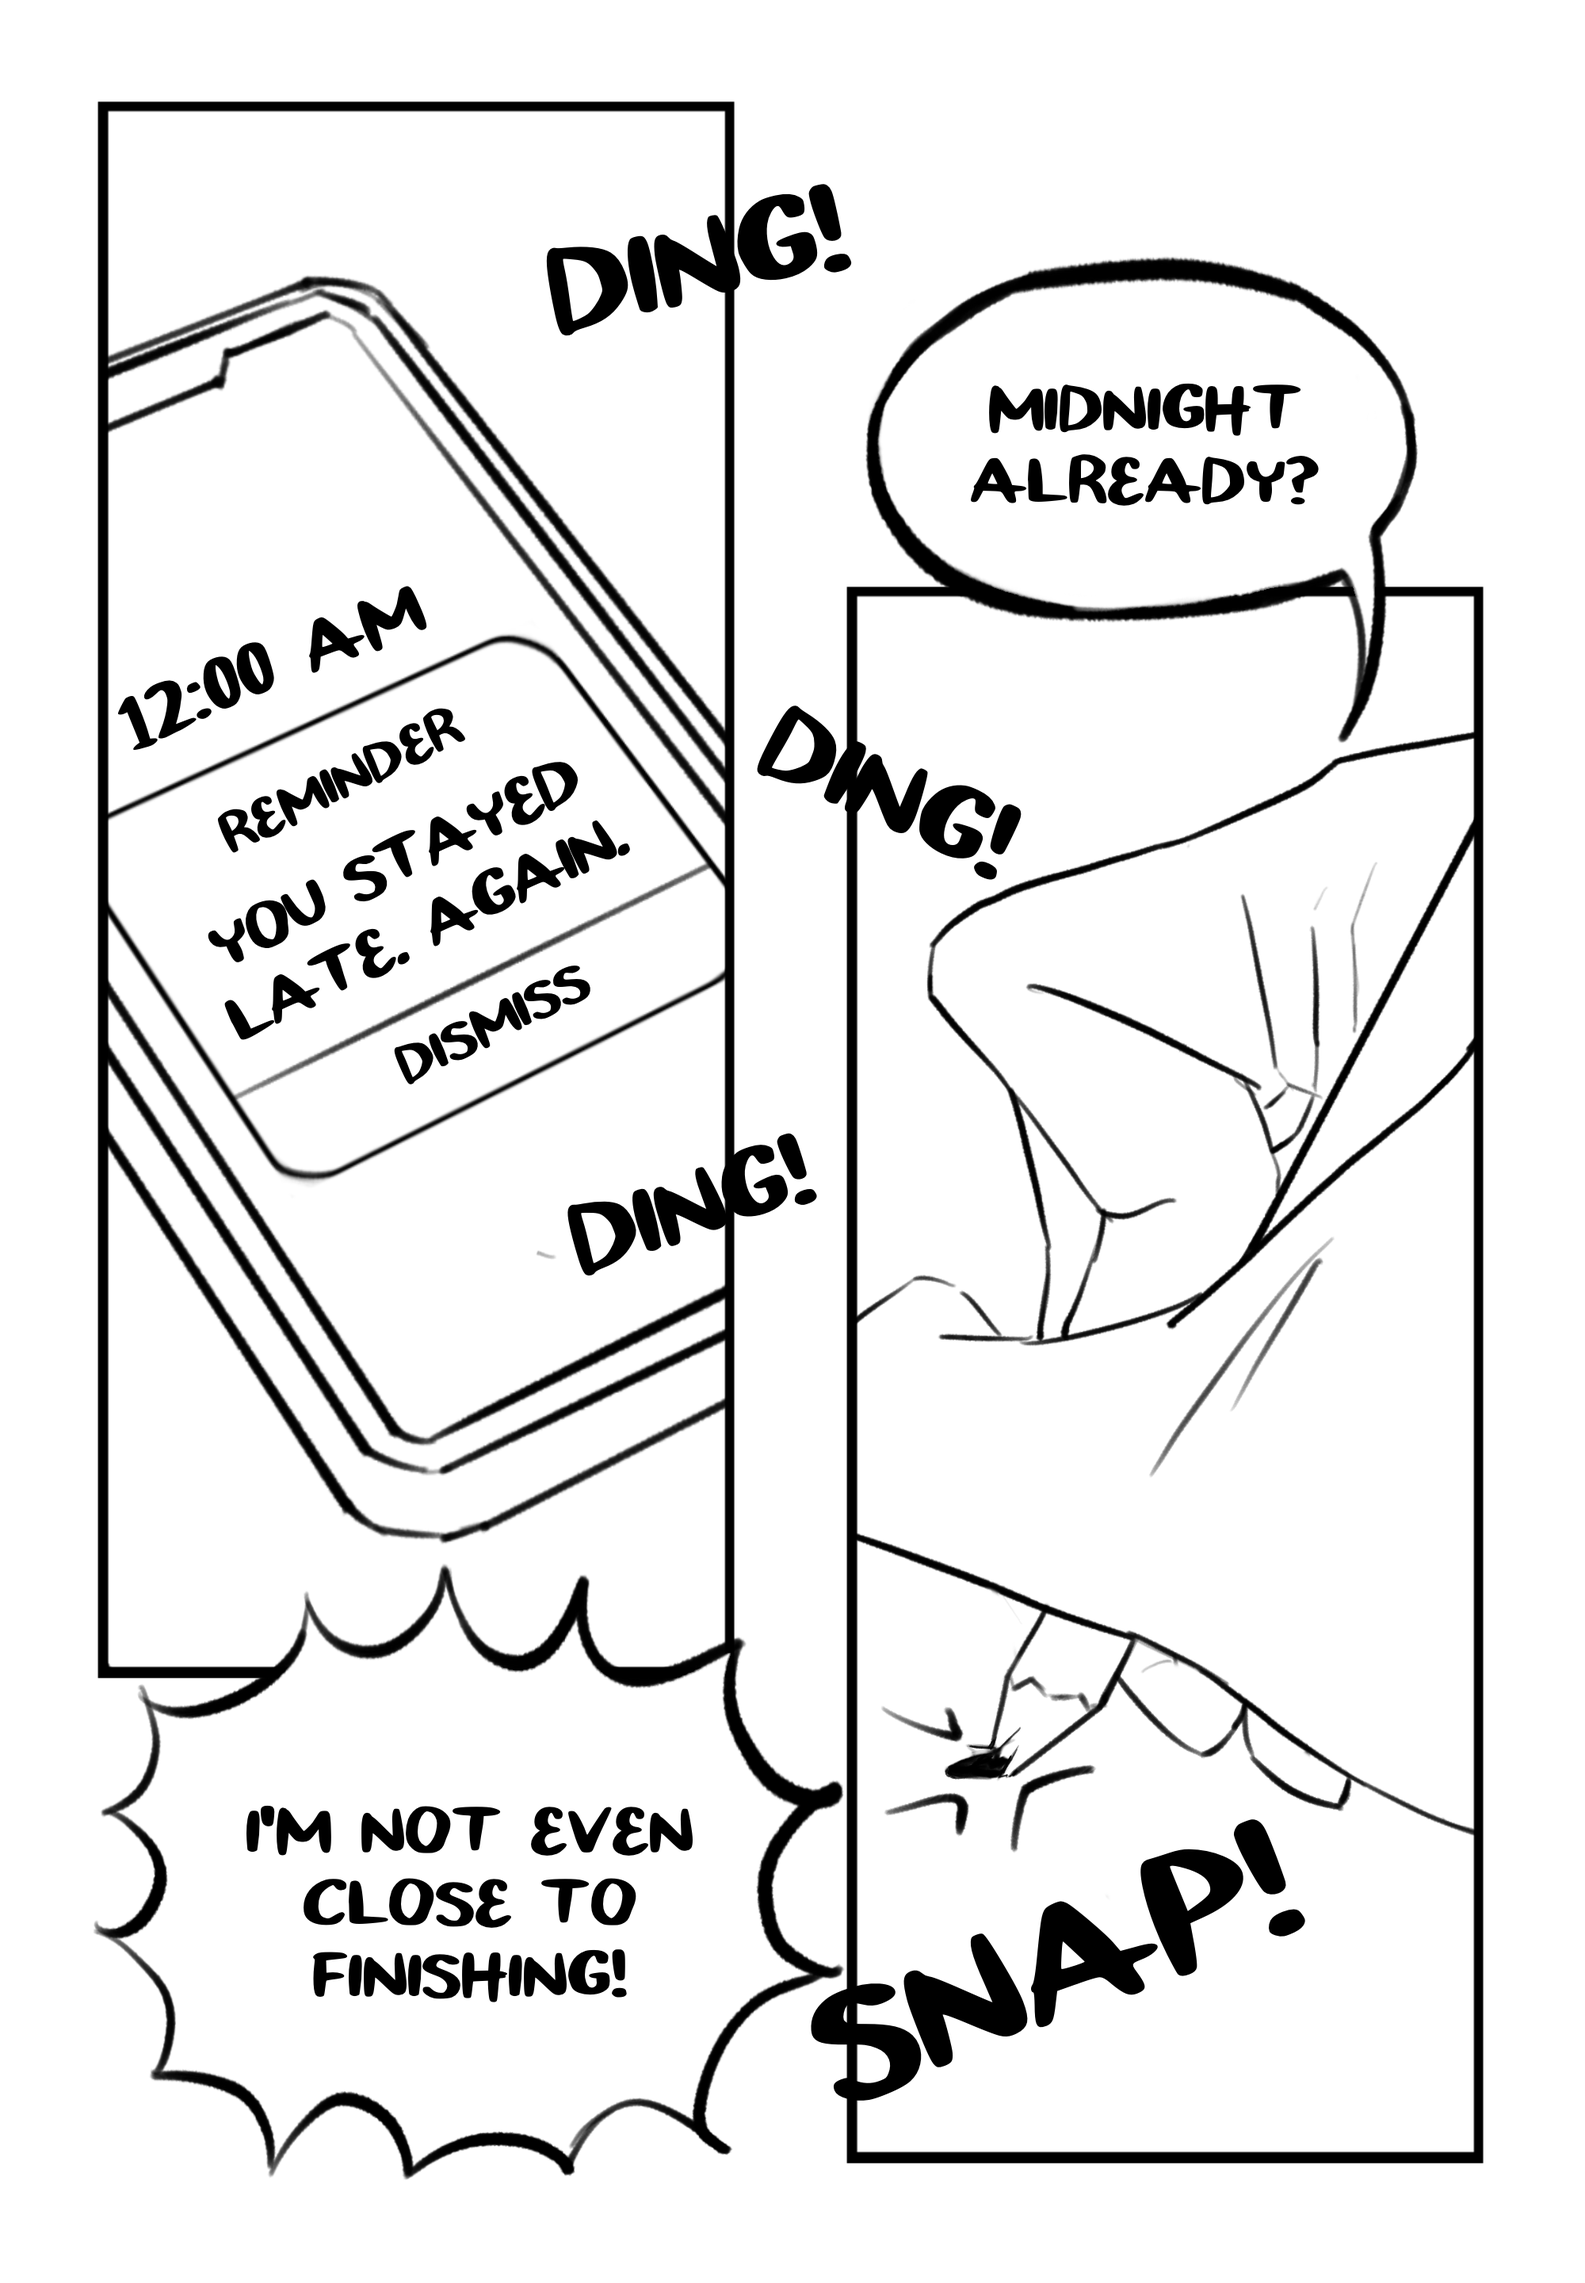
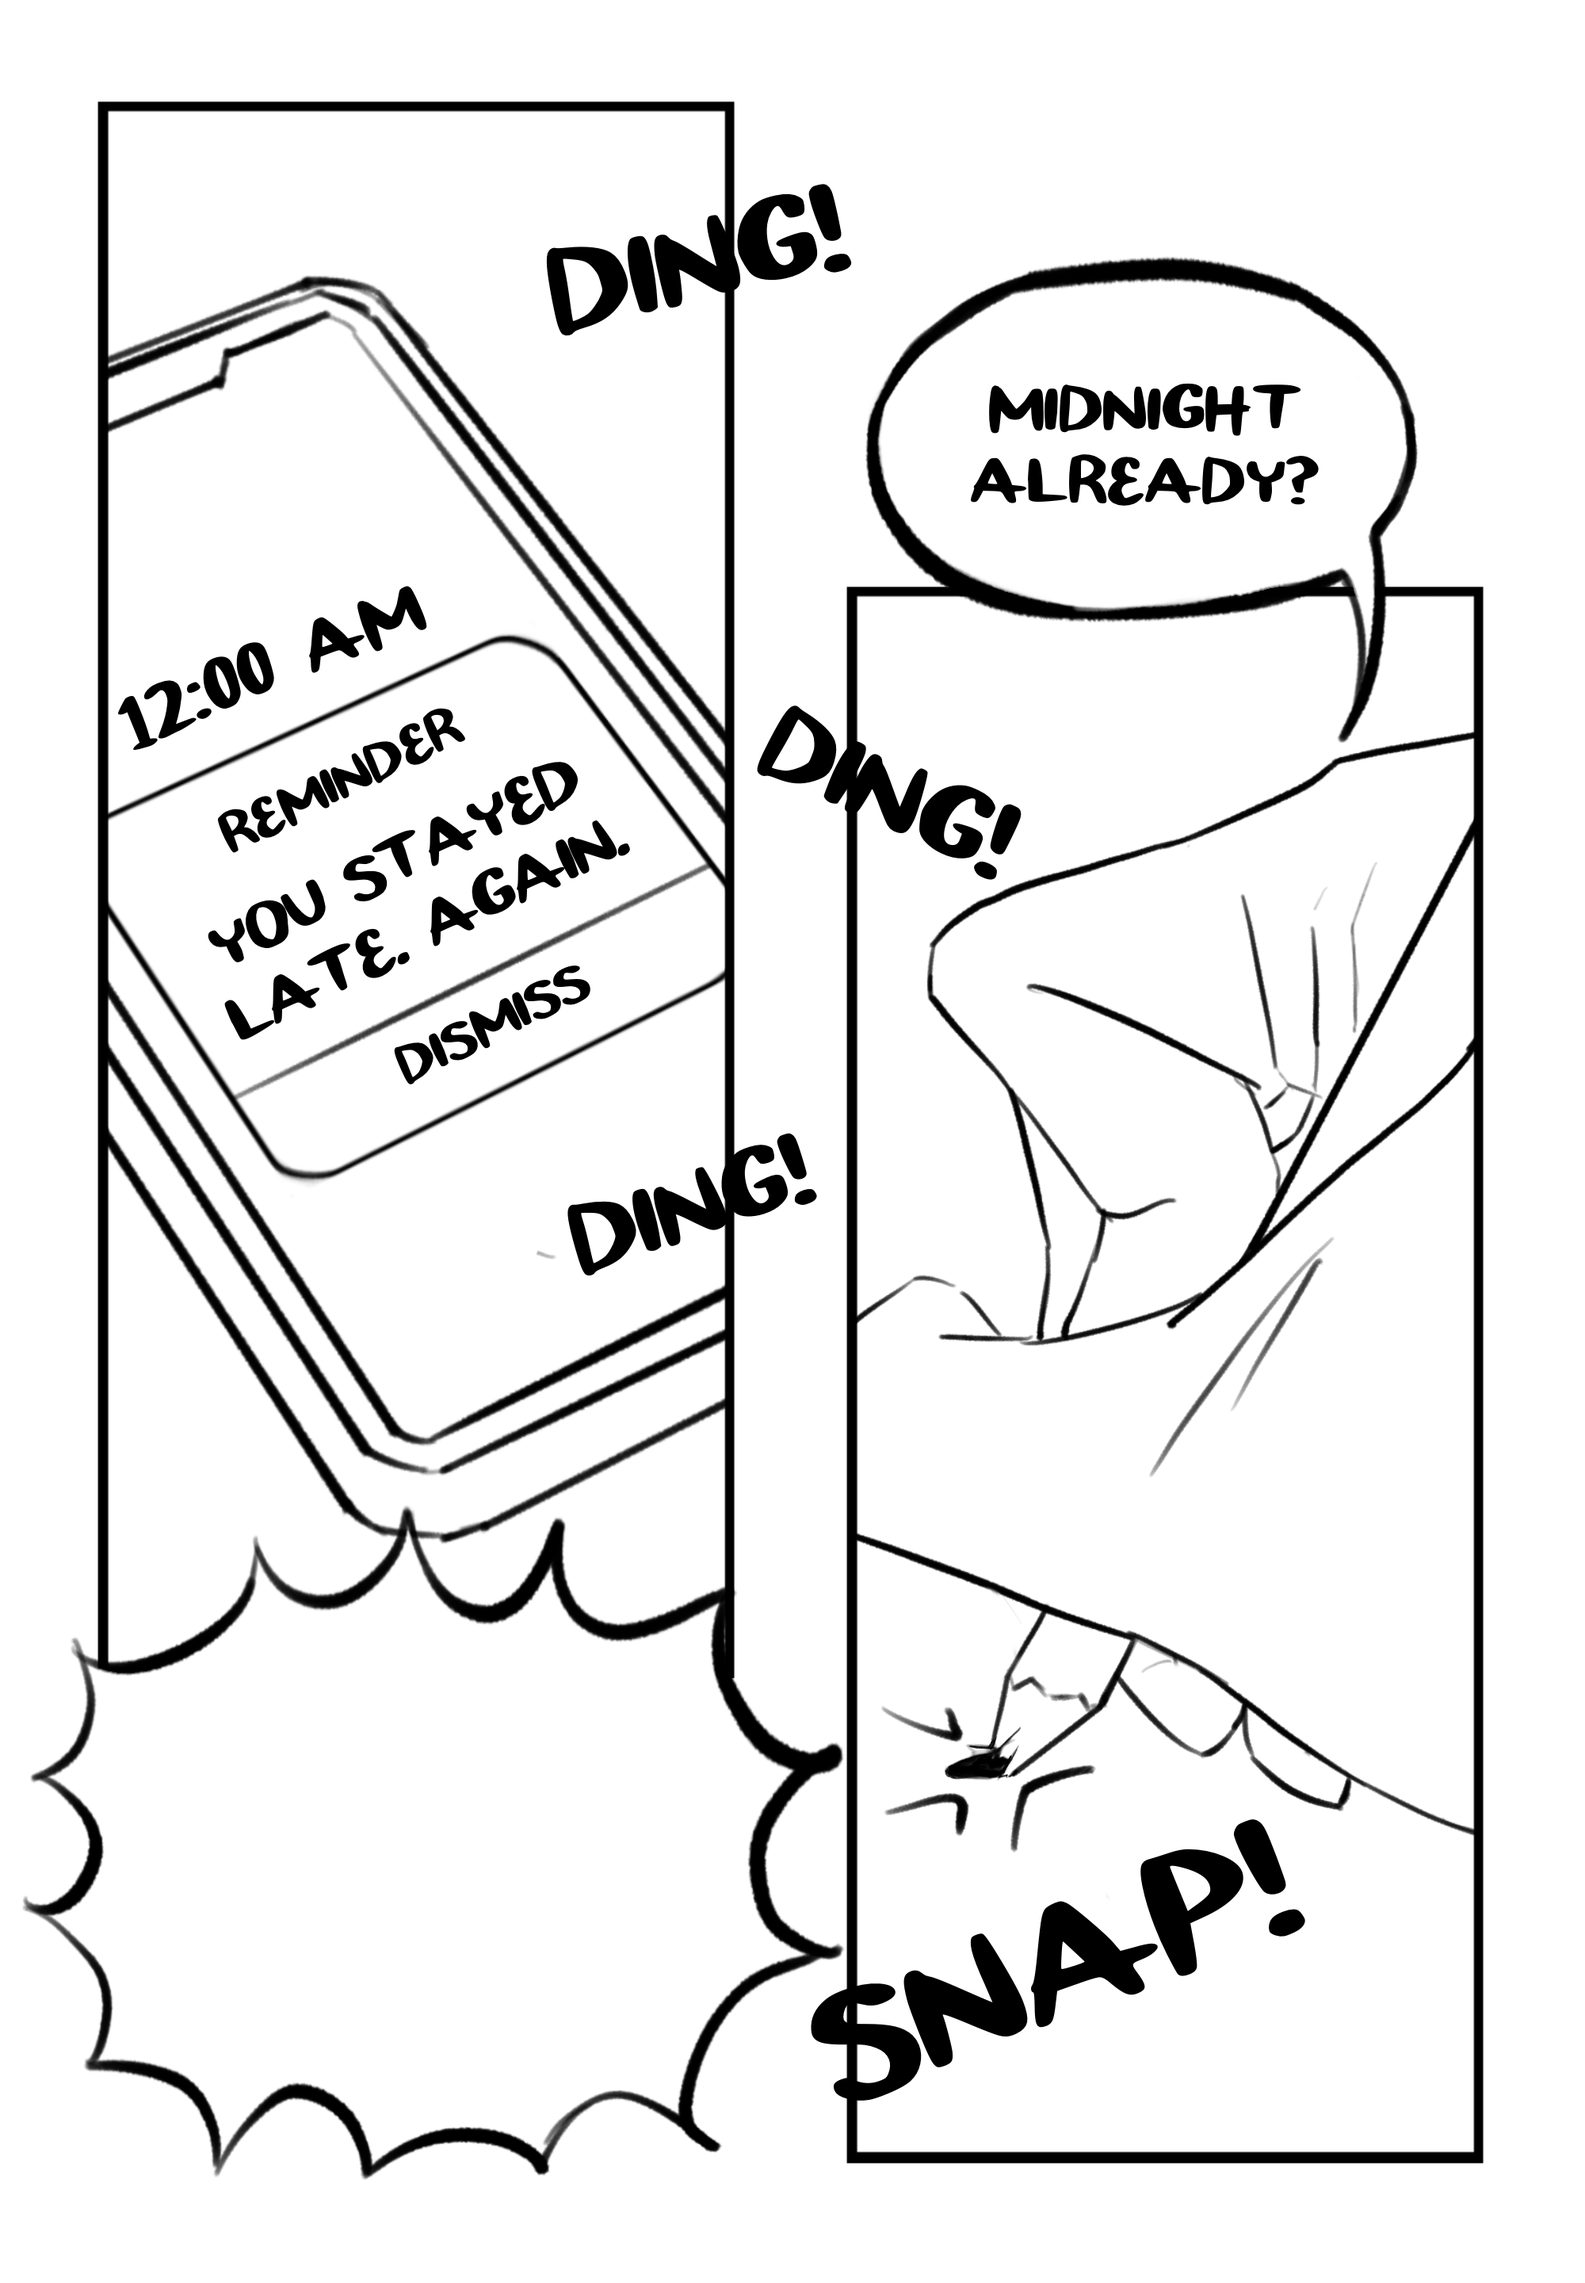
task: adds prompts

Changed region(s): [[0.0, 0.6562, 0.527, 0.9688], [0.155, 0.7812, 0.434, 0.875]]

diff --git a/game/src/constants/index.js b/game/src/constants/index.js
@@ -27,7 +27,7 @@ export const PANELS = [
     id: 0,
     background: panel1,
     mc_dialogue: ["type to start"],
-    mc_dialogue_x: "8rem",
+    mc_dialogue_x: "9rem",
     mc_dialogue_y: "30rem",
     rotate: "0deg",
     size: "20px",
@@ -38,11 +38,11 @@ export const PANELS = [
   {
     id: 1,
     background: panel2,
-    mc_dialogue: ["next"],
-    mc_dialogue_x: "24rem",
-    mc_dialogue_y: "37.5rem",
-    rotate: "0deg",
-    size: "30px",
+    mc_dialogue: ["ding!"],
+    mc_dialogue_x: "12rem",
+    mc_dialogue_y: "17.5rem",
+    rotate: "10deg",
+    size: "25px",
     other_dialogues: () => [],
     combat: false,
     next_id: 2,
@@ -51,8 +51,8 @@ export const PANELS = [
     id: 2,
     background: panel3,
     mc_dialogue: ["dammit. need to find the nest fast."],
-    mc_dialogue_x: "7.2rem",
-    mc_dialogue_y: "30rem",
+    mc_dialogue_x: "8rem",
+    mc_dialogue_y: "33rem",
     rotate: "-37deg",
     size: "25px",
     other_dialogues: () => [],
@@ -63,8 +63,8 @@ export const PANELS = [
     id: 3,
     background: panel4,
     mc_dialogue: ["oh no, it's empty!"],
-    mc_dialogue_x: "13rem",
-    mc_dialogue_y: "22rem",
+    mc_dialogue_x: "13.5rem",
+    mc_dialogue_y: "25rem",
     rotate: "-23deg",
     size: "25px",
     other_dialogues: () => [],
@@ -74,9 +74,9 @@ export const PANELS = [
   {
     id: 4,
     background: panel5,
-    mc_dialogue: ["arg, useless thing.", "out of bullets.", "damn rifle"],
+    mc_dialogue: ["arg, useless thing", "out of bullets", "damn rifle"],
     mc_dialogue_x: "13rem",
-    mc_dialogue_y: "5rem",
+    mc_dialogue_y: "8.5rem",
     rotate: "-23deg",
     size: "25px",
     other_dialogues: () => [],
@@ -87,8 +87,8 @@ export const PANELS = [
     id: 5,
     background: panel6,
     mc_dialogue: ["shit."],
-    mc_dialogue_x: "13rem",
-    mc_dialogue_y: "22.5rem",
+    mc_dialogue_x: "13.5rem",
+    mc_dialogue_y: "25.5rem",
     rotate: "-23deg",
     size: "30px",
     other_dialogues: () => [],
@@ -99,11 +99,11 @@ export const PANELS = [
   {
     id: 6,
     background: panel7,
-    mc_dialogue: ["midnight already?", "i'm not even close to finishing!"],
-    mc_dialogue_x: "12rem",
-    mc_dialogue_y: "22rem",
+    mc_dialogue: ["i'm not even close to finishing!"],
+    mc_dialogue_x: "2rem",
+    mc_dialogue_y: "34rem",
     rotate: "0deg",
-    size: "30px",
+    size: "25px",
     other_dialogues: () => [`This is a typing game.`],
     combat: false,
     next_id: 7,
@@ -111,11 +111,11 @@ export const PANELS = [
   {
     id: 7,
     background: panel8,
-    mc_dialogue: [" "],
-    mc_dialogue_x: "-2.7rem",
-    mc_dialogue_y: "10rem",
+    mc_dialogue: ["editor wesson is going to kill me."],
+    mc_dialogue_x: "9.5rem",
+    mc_dialogue_y: "26rem",
     rotate: "0deg",
-    size: "30px",
+    size: "25px",
     other_dialogues: () => [],
     combat: false,
     next_id: 8,
@@ -123,9 +123,9 @@ export const PANELS = [
   {
     id: 8,
     background: panel9,
-    mc_dialogue: [" "],
-    mc_dialogue_x: "2.7rem",
-    mc_dialogue_y: "10rem",
+    mc_dialogue: ["trudge"],
+    mc_dialogue_x: "19rem",
+    mc_dialogue_y: "24.8rem",
     rotate: "0deg",
     size: "30px",
     other_dialogues: () => [],

diff --git a/game/src/Panel.js b/game/src/Panel.js
@@ -66,12 +66,12 @@ function Panel({ panel, isActive, setIsCompleted, setIsGameOver, isGameOver }) {
         if (dialogueIndex < panel.mc_dialogue.length - 1) {
           // Move to the next dialogue in the list
           setDialogueIndex(dialogueIndex + 1);
+          resetDialogue();
         } else {
           // All dialogues completed
           panel.combat ? setCurrentVideo(death) : setIsCompleted(true);
           setIsTyping(false);
         }
-        resetDialogue();
       }
     } else {
       setIsTyping(false);
